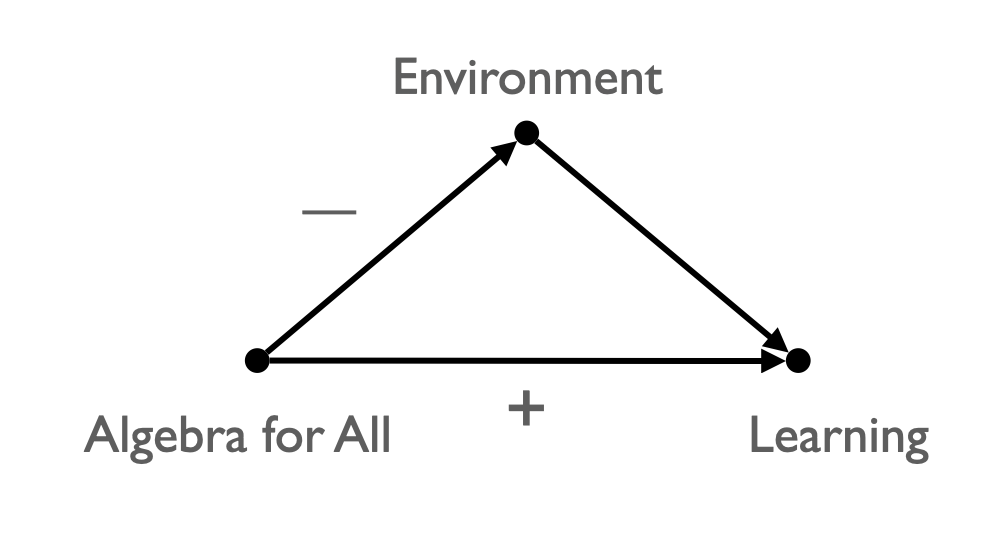
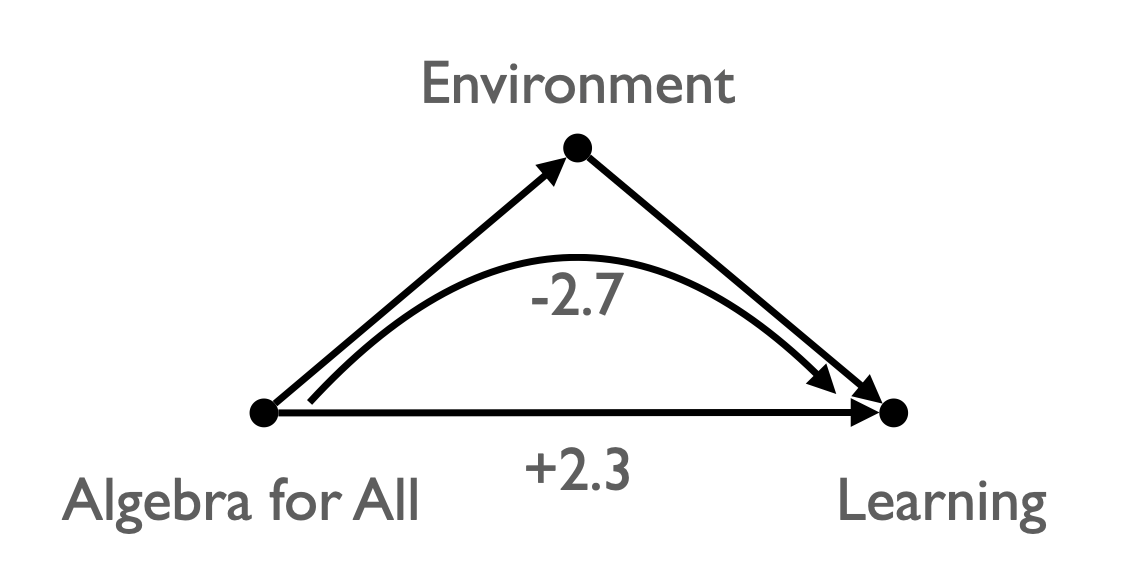
d

diff --git a/docs/contents/two-cultures.html b/docs/contents/two-cultures.html
@@ -290,6 +290,7 @@ window.Quarto = {
   </ul></li>
   <li><a href="#the-third-camp-causal-inference" id="toc-the-third-camp-causal-inference" class="nav-link" data-scroll-target="#the-third-camp-causal-inference">The Third Camp: Causal Inference</a>
   <ul>
+  <li><a href="#인과-추론을-향한-고군분투" id="toc-인과-추론을-향한-고군분투" class="nav-link" data-scroll-target="#인과-추론을-향한-고군분투">인과 추론을 향한 고군분투</a></li>
   <li><a href="#간략한-역사적-배경" id="toc-간략한-역사적-배경" class="nav-link" data-scroll-target="#간략한-역사적-배경">간략한 역사적 배경</a></li>
   <li><a href="#causal-revolution" id="toc-causal-revolution" class="nav-link" data-scroll-target="#causal-revolution">Causal Revolution</a>
   <ul class="collapse">
@@ -300,7 +301,7 @@ window.Quarto = {
   <li><a href="#dag" id="toc-dag" class="nav-link" data-scroll-target="#dag">DAG</a></li>
   <li><a href="#confounding" id="toc-confounding" class="nav-link" data-scroll-target="#confounding">Confounding</a></li>
   </ul></li>
-  <li><a href="#humility" id="toc-humility" class="nav-link" data-scroll-target="#humility">Humility</a>
+  <li><a href="#humility" id="toc-humility" class="nav-link" data-scroll-target="#humility">Humility…</a>
   <ul>
   <li><a href="#quotes-from-einstein" id="toc-quotes-from-einstein" class="nav-link" data-scroll-target="#quotes-from-einstein">Quotes from Einstein</a></li>
   </ul></li>
@@ -706,6 +707,8 @@ Digging It Out in Small Pieces</p>
 <blockquote class="blockquote">
 <p><em>Data is a window, not a mirror to reality!</em></p>
 </blockquote>
+<section id="인과-추론을-향한-고군분투" class="level2">
+<h2 class="anchored" data-anchor-id="인과-추론을-향한-고군분투">인과 추론을 향한 고군분투</h2>
 <p><strong><em>담배는 폐암의 원인인가?</em></strong></p>
 <ul>
 <li>1950년 ~ 1964년 미국에서 의사, 역학자, 통계학자 사이의 큰 논쟁</li>
@@ -768,12 +771,21 @@ UC Berkeley Admission Paradox</p>
 <li>이 중 대수 1 과목(“Algebra for All”)의 경우 3년 간 유의한 성적 개선이 없었음.</li>
 <li>Guanglei Hong(시카고대 인간발달)은 정책의 직접적 효과는 존재한다고 판별했음!
 <ul>
-<li>정책이 두 가지 방식으로 (다른 방향으로) 작용했음.<br>
-<img src="images/bookofwhy-fig-9-10.png" class="img-fluid" width="350"></li>
+<li>정책이 두 가지 방식으로 (다른 방향으로) 작용했음.</li>
+<li>이후 “Double-Dose Algebra”으로 개선했음.<br>
+<img src="images/bookofwhy-fig-9-10.png" class="img-fluid" width="330"></li>
 </ul></li>
 </ul>
+</section>
 <section id="간략한-역사적-배경" class="level2">
 <h2 class="anchored" data-anchor-id="간략한-역사적-배경">간략한 역사적 배경</h2>
+<p>인과에 대한 철학적 논쟁들</p>
+<ul>
+<li>정의, 인식 가능성, 필연성</li>
+<li>다중 원인, 상호작용</li>
+<li>시간적 순서성, 인과의 피트백</li>
+<li>결정론적 vs.&nbsp;확률론적</li>
+</ul>
 <p><em>The Grammar of Science (1892),</em> by Karl Pearson</p>
 <blockquote class="blockquote">
 <p><em>특정 시퀀스가 과거에 발생하고 반복되었다는 것은 <strong>경험의 문제</strong>이며, 인과라는 개념 안에서 그렇게 표현합니다. 미래에도 계속 반복될 것이라는 것은 <strong>신념의 문제</strong>이며, 확률이라는 개념 안에서 그렇게 표현합니다. 과학은 어떤 경우에도 시퀀스에 내재된 <strong>필연성을 입증할 수 없으며</strong>, 시퀀스가 반드시 반복되어야 한다는 것을 절대적으로 확실하게 증명할 수도 없습니다. 과거에 대한 과학은 묘사이고 미래에 대한 과학은 믿음입니다;</em></p>
@@ -984,17 +996,15 @@ Source: <em>National Education Longitudinal Study of 1988 (NELS:88)</em></p>
 </section>
 </section>
 <section id="humility" class="level1">
-<h1>Humility</h1>
+<h1>Humility…</h1>
 <blockquote class="blockquote">
 <p><em>아인슈타인은 한번 우주를 순전히 물리적 용어로 이해할 수 있을 것이라고 생각하는지 질문을 받았습니다. 그는 “음, 그럴 수도 있지만, 이것은 베토벤 교향곡을 음표(notes)의 주파수 분포(frequency distribution)로 이해하려는 것과 같을 것입니다.”</em></p>
 </blockquote>
-<blockquote class="blockquote">
-<p><em>… 나 자신에게는 해변에서 놀고 있는 한 소년에 불과했던 것 같습니다. 그저 평범한 것보다 조금 더 매끄러운 조약돌이나 더 예쁜 조개껍데기를 이따금 발견하며 즐기고 있었을 뿐, 그 동안 진리의 위대한 대양(the great ocean of truth)은 모두 미발견인 채로 내 앞에 놓여 있었습니다.</em> (Isaac Newton)</p>
-</blockquote>
+<!-- > *... 나 자신에게는 해변에서 놀고 있는 한 소년에 불과했던 것 같습니다. 그저 평범한 것보다 조금 더 매끄러운 조약돌이나 더 예쁜 조개껍데기를 이따금 발견하며 즐기고 있었을 뿐, 그 동안 진리의 위대한 대양(the great ocean of truth)은 모두 미발견인 채로 내 앞에 놓여 있었습니다.* (Isaac Newton) -->
 <section id="quotes-from-einstein" class="level3">
 <h3 class="anchored" data-anchor-id="quotes-from-einstein">Quotes from Einstein</h3>
 <blockquote class="blockquote">
-<p><em>우리가 경험할 수 있는 가장 <strong>아름다운 감정은 신비감(mystical)</strong>입니다. 그것은 모든 진정한 예술과 과학의 힘입니다. 낯설게만 느낄 뿐인 이 감정들, <strong>더 이상 경이로움(wonder)을 느끼지 못하며 황홀한 경외심(awe)을 갖지 못하는 사람은 죽은 것이나 마찬가지입니다.</strong> 우리에게 불가해한(impenetrable) 것이 실제로 존재하며, 그것이 최고의 지혜와 가장 빛나는 아름다움으로 나타난다는 것을 아는 것—우리의 둔한 능력으로는 가장 원시적인 형태로만 이해할 수 있는—이 지식, 이 느낌이 진정한 종교성의 중심에 있습니다. 이런 의미에서, 그리고 오직 이런 의미에서만, 나는 독실하게 종교적인 사람들의 대열에 속합니다.</em></p>
+<p><em>우리가 경험할 수 있는 <strong>가장 아름다운 감정은 신비감(mystical)</strong>입니다. 그것은 모든 진정한 예술과 과학의 힘입니다. 낯설게만 느낄 뿐인 이 감정들, <strong>더 이상 경이로움(wonder)을 느끼지 못하며 황홀한 경외심(awe)을 갖지 못하는 사람은 죽은 것이나 마찬가지입니다.</strong> 우리에게 불가해한(impenetrable) 것이 실제로 존재하며, 그것이 최고의 지혜와 가장 빛나는 아름다움으로 나타난다는 것을 아는 것—우리의 둔한 능력으로는 가장 원시적인 형태로만 이해할 수 있는—<strong>이 지식, 이 느낌이 진정한 종교성의 중심에 있습니다.</strong> 이런 의미에서, 그리고 오직 이런 의미에서만, 나는 독실하게 종교적인 사람들의 대열에 속합니다.</em></p>
 </blockquote>
 <div style="line-height: 1.5em; font-size: .9em">
 <blockquote class="blockquote">
